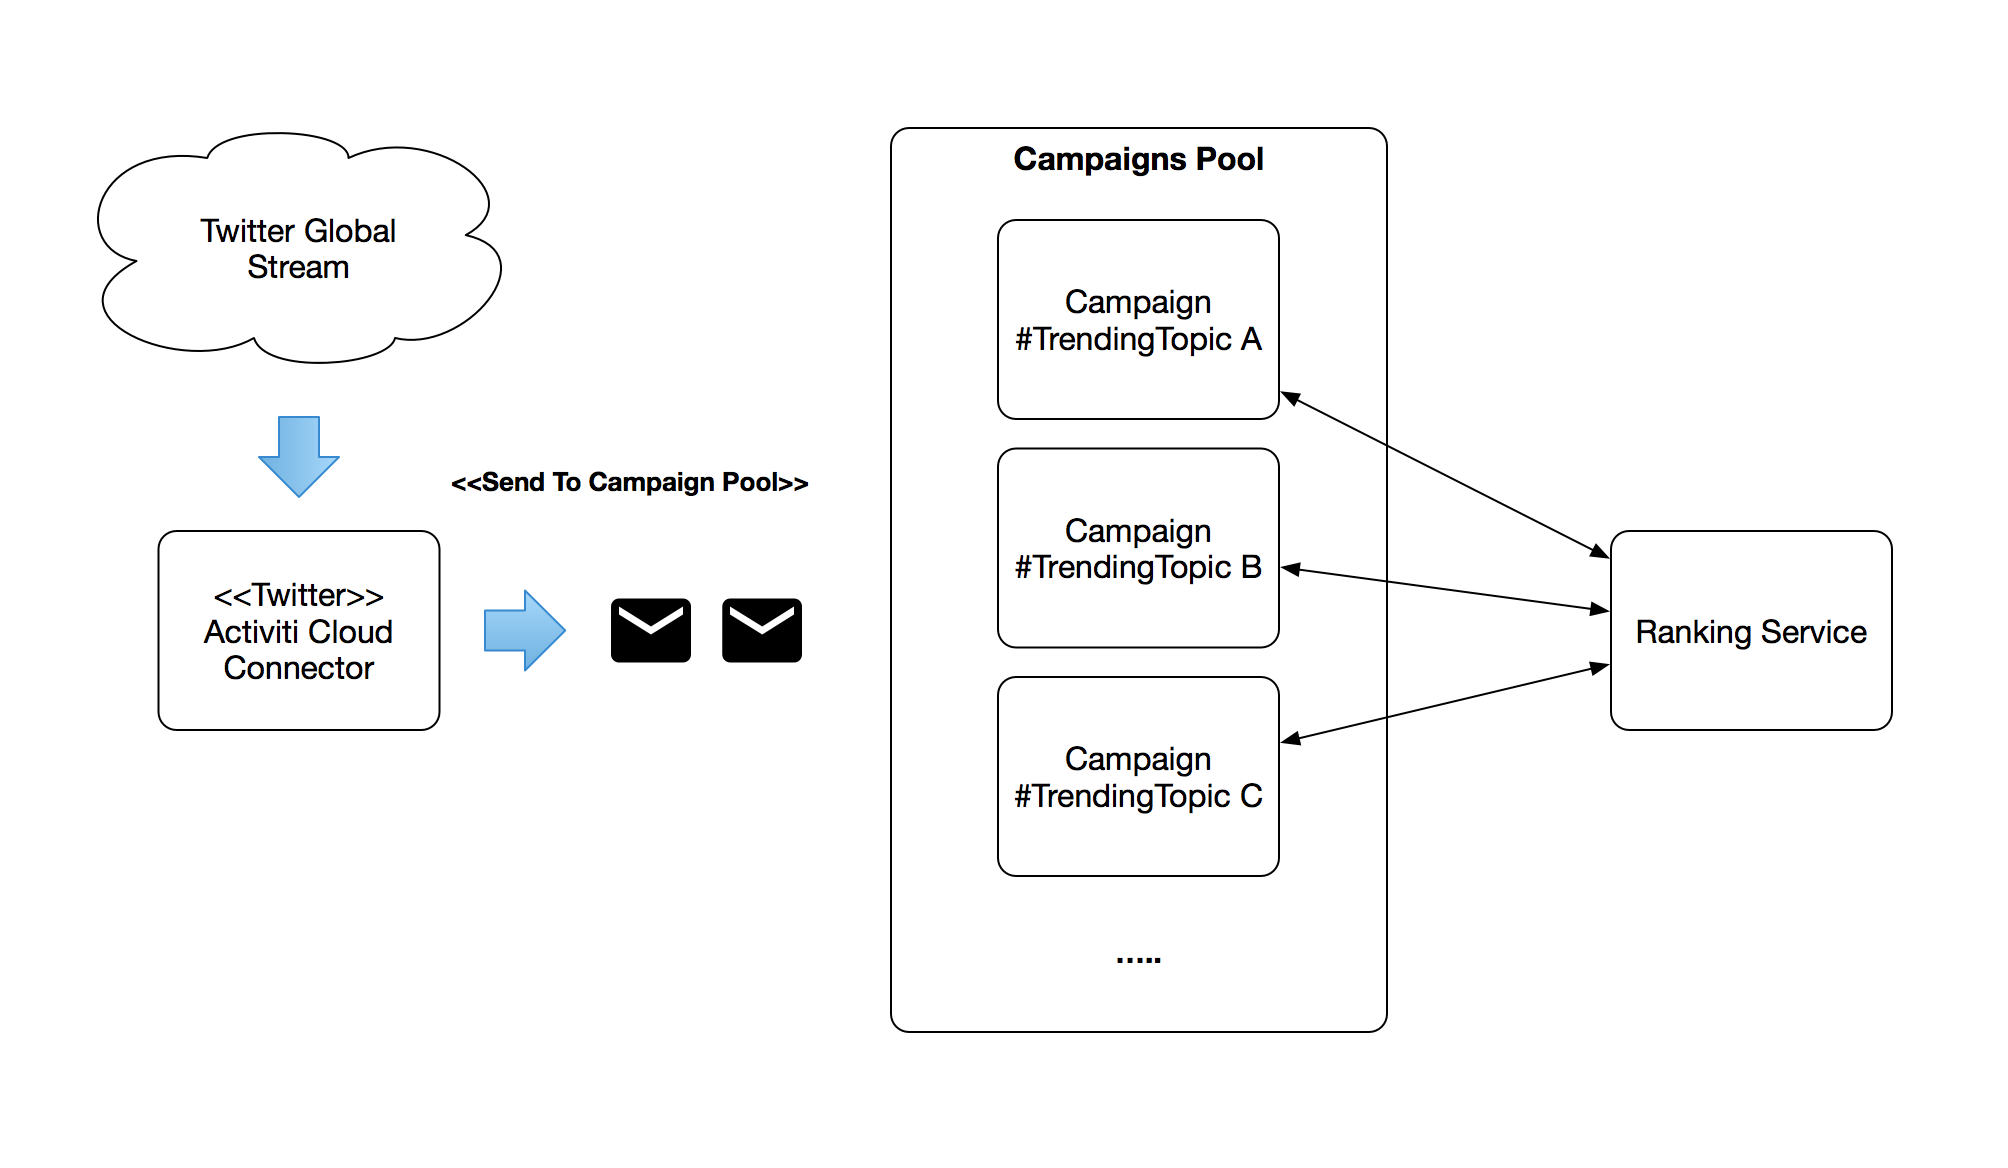
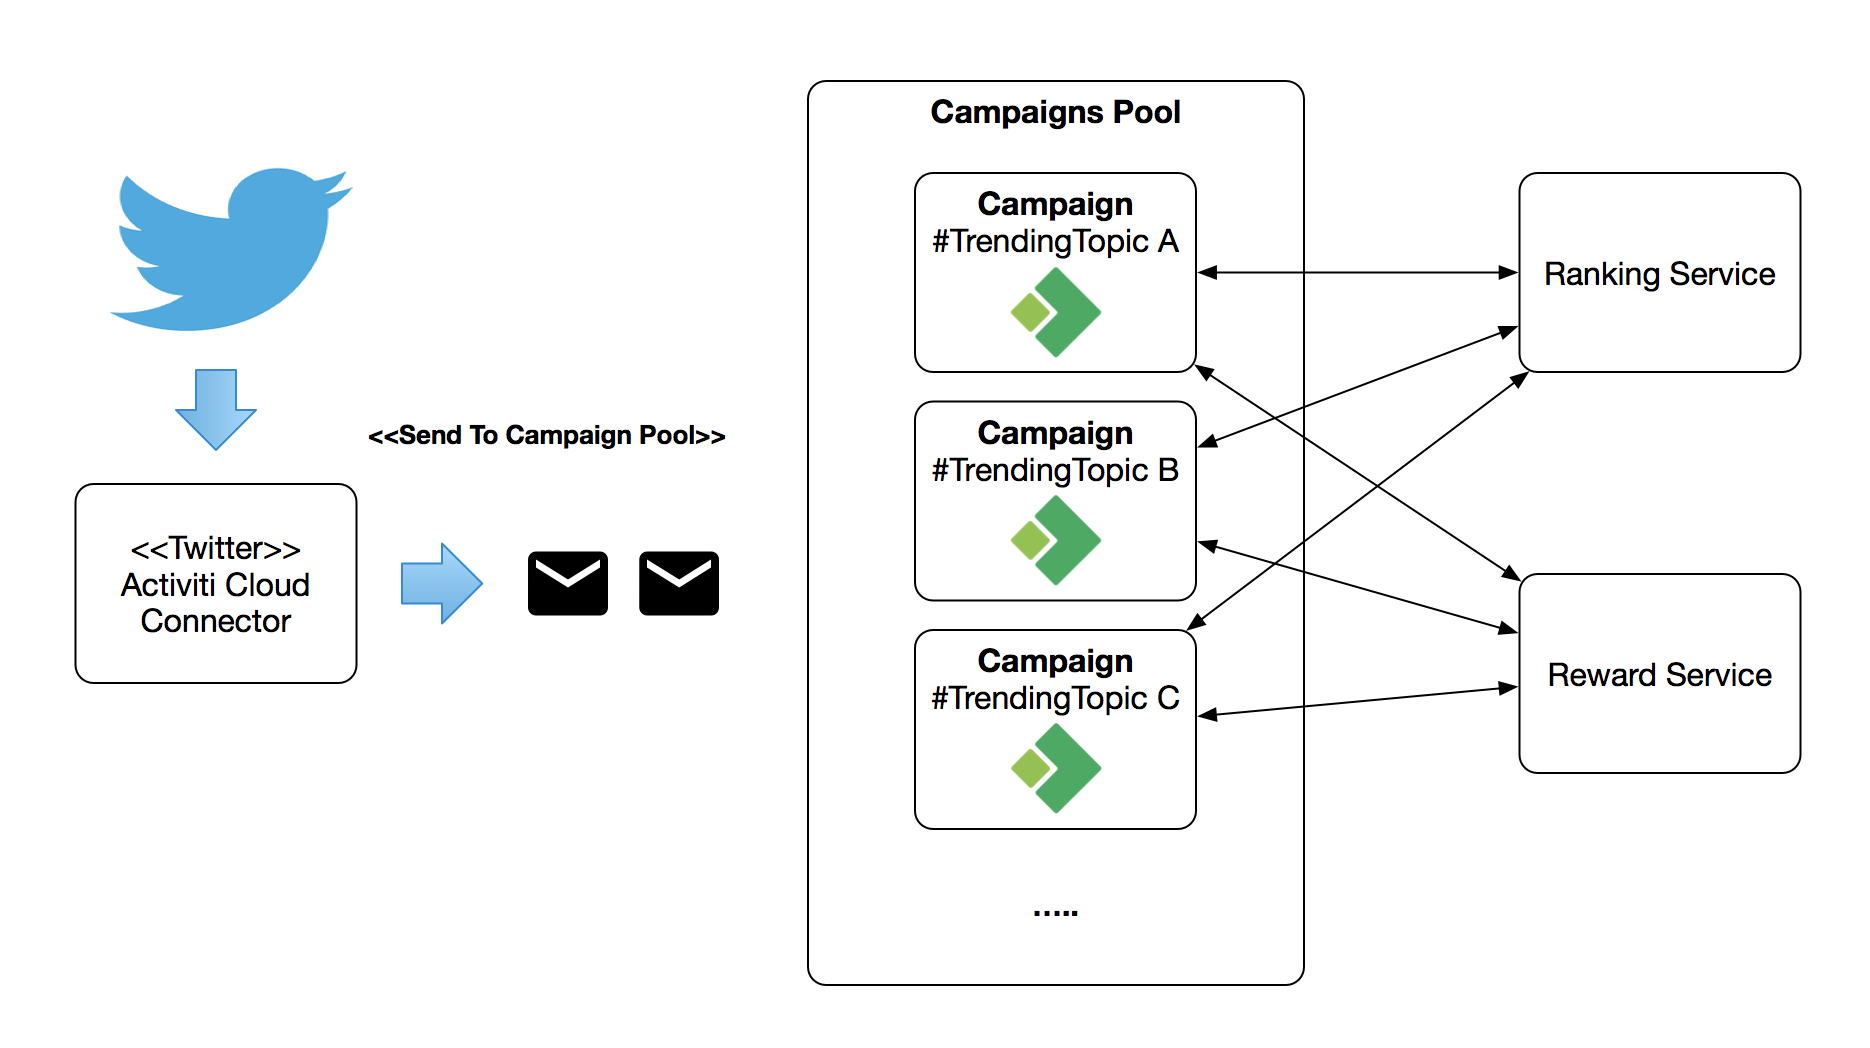
adding TTC blueprint

diff --git a/blueprints/trending-topic-campaigns/TrendingTopicCampaigns.md b/blueprints/trending-topic-campaigns/TrendingTopicCampaigns.md
@@ -15,6 +15,7 @@ In order to implement this scenario we can divide the requirements into two diff
 - **How** it needs to be done: all the technical aspects of how to get the data moved to different services to perform the **What**
 
 The **What** is usually referred as Business Logic or Domain Specific Logic. This is why our Marketing company is the best, because our Domain Experts master the **What**.
+
 The **How** is what we developers & system integrators care about. We don't want to interfere with the **What**, quite the opposite, we want to make sure that as soon as the **What** is defined we can plug in all the technical bits so the company can have a new Marketing campaign up and running in minutes.
 
 As part of the **How**, it is important to understand that all campaigns will share a common set of building blocks which we call infrastructure. These are message brokers, security mechanisms, etc. that will be share by all campaigns. For us to be fast and develop and deploy new campaigns quickly a running infrastructure must be in place so multiple campaigns can share the common bits. At the same time, it is important to notice that even if we share common infrastructural services, we should be able to scale each campaign independently.
@@ -38,7 +39,7 @@ Each campaign will define 2 main things:
 
 **Note Before starting:  it is important to understand that this example is complex because real life is complex. We tried to avoid too many hacks and shortcuts to make sure that we leverage the infrastructure as real applications (your implementations) will do. If you get overwhelmed with the amount of services and moving pieces you are probably not ready for uServices & Kubernetes just yet :). As part of the infrastructure we provide monitoring and tracing tools which will enable you to understand what is going on and how all these services are interacting.**
 
-This section explains in detail the components required to create and run a new marketing campaign.
+This section explains in detail the components required to create and run a new marketing campaign for a trending topic.
 The example is composed by 6 Maven projects that can be found here: [BluePrint Trending Topic Campaigns](https://github.com/Activiti/blueprint-trending-topic-campaigns/tree/develop/)
 
 - **english-campaign-rb**: this is an example Campaign to deal with English Tweets and rewards, we encourage you to create new campaigns with your own business processes and domain models.
@@ -60,7 +61,7 @@ Campaigns are domain specific uServices. Different marketing departments might n
 As stated before in the scenario section, campaigns are responsible for:
 - Defining how to process each tweet for a given trending topic
 - Defining how to reward users which participated the most in the campaign
-
+![](../../../assets/examples/campaigns.png)
 
 ## Campaign Definition
 We create a simple campaign composed by 4 main steps:
@@ -89,7 +90,7 @@ We defined a simple rewarding process as well. It is composed of 3 main steps:
 
 ##Campaign Runtime Bundle
 
-In order to be able to execute these Business Process Definitions we create a new Activiti Runtime Bundle by creating a Spring Boot 2 application and adding our Activiti Cloud Runtime Bundle Starter as a dependency:
+In order to be able to execute these Business Process Definitions we create a new Activiti Cloud Runtime Bundle by creating a Spring Boot 2 application and adding our Activiti Cloud Runtime Bundle Starter as a dependency:
 ```
 <dependency>
   <groupId>org.activiti.cloud</groupId>
@@ -100,7 +101,7 @@ In order to be able to execute these Business Process Definitions we create a ne
 Then we copy our Business Process definitions under:
 ``src/main/resources/processes/``
 
-The campaign runtime bundle project can be found here: [english-campaign-rb](https://github.com/Activiti/activiti-cloud-examples/tree/develop/trending-topic-campaigns/english-campaign-rb)
+The campaign runtime bundle project can be found here: [english-campaign-rb](https://github.com/Activiti/blueprint-trending-topic-campaigns/tree/develop/english-campaign-rb)
 
 Both the Campaign and Reward processes will interact with external services to perform their tasks. This interaction will be handled by our Activiti Cloud Connectors. Which serves as an intermediate layer between the Process Runtime and the external service.
 
@@ -108,12 +109,13 @@ Both the Campaign and Reward processes will interact with external services to p
 
 This intermediate layer of Cloud Connectors enable us to scale the process runtime independently from how they interact with other service. It also serves as a great place to add some technical and business details about each of these interactions. We need to consider that in real life interactions we might have SLAs and policies to limit or control these external services interactions. Activiti Cloud Connectors helps you to add these complex controls in a way that they are completely decoupled from your processes executions.
 
-As you can imagine this Runtime Bundle will end up containerized into a Docker Image that we can deploy and scale independently. We generate this docker image using the Fabric8 Docker Maven Plugin.
+We can easily build a docker image from our Runtime Bundle that we can deploy and scale independently if we are targeting an orchestrator such as Kubernetes. We generate this docker image using the Fabric8 Docker Maven Plugin, which is configured to generate the image after the Java application is packaged by maven. Notice that we can use the Fabric8 Plugin also to publish/deploy the image to a Docker Registry such as Docker Hub, which allow us to deploy all our components in a remote environment without the need of building each docker image locally in that remote environment.
 
 
-# Connectors
+# Activiti Cloud Connectors
+Activiti Cloud Connectors provides a clean way to define system to system interactions. On this BluePrint Activiti Cloud Connectors are used heavily to feed the campaigns with data that needs to be processed by our Campaign's business processes. In the following sections we describe these connectors which all share the same approach.
 
-### Twitter Activiti Cloud Connector
+## Twitter Activiti Cloud Connector
 First of all we need to tap into the Twitter Stream to consume tweets. For doing that we will use [Twitter4J](http://twitter4j.org/en/configuration.html) and because we are consuming data from an external system we will create an Activiti Cloud Connector to deal with all the Twitter interactions.
 
 Our Twitter Activiti Cloud Connector will be in charge of tapping into the Twitter Stream, route tweets based on their language and Tweet the rewards for the winners of each campaign.
@@ -134,8 +136,8 @@ If you look at the Twitter Activiti Cloud Connector you will notice the followin
 - The LangAwareTwitterStatusListener is in charge of getting the language of the Tweet and adding it to the Header of the message. We use this as a filter for campaigns to quickly drop messages that are not matching with the campaign language.
 - One Message Per Tweet is sent
 
-As you can imagine this connector will end up containerized into a Docker Image that we can deploy and scale independently. We generate this docker image using the Fabric8 Docker Maven Plugin.
-
+## Dummy Twitter Activiti Cloud Connector
+Alternatively you can use the Dummy Twitter component (which is started by default in our deployment descriptors)
 
 # Running the BluePrint
 There are 3 ways of running this example depending on how familiar you are with containers and orchestrators:
@@ -149,7 +151,7 @@ Kubernetes is not the ultimate tool but it does quite good in abstracting us fro
 First of all you need to clone the activiti-cloud-examples repository (currently in the development branch until we release it):
 ```
 git clone https://github.com/Activiti/activiti-cloud-examples.git
-cd activiti-cloud-examples/
+
 cd trending-topics-campaigns/
 mvn clean install
 ```
